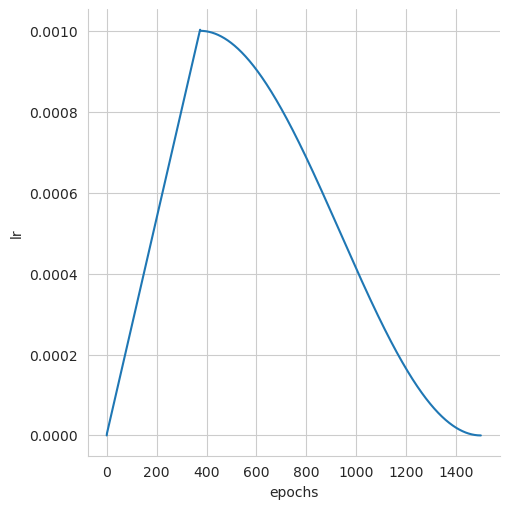
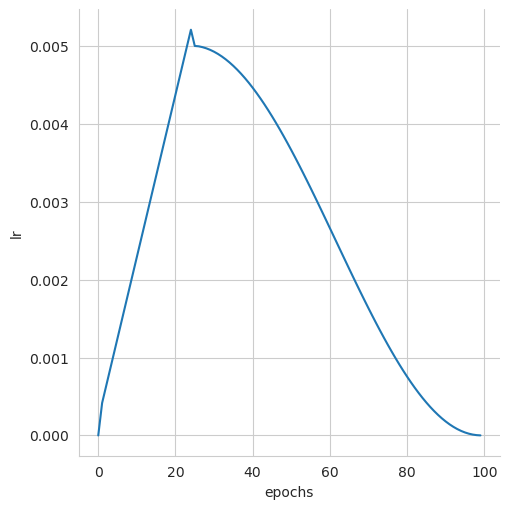
Now output is taken from last output rather than last Hidden

diff --git a/model.py b/model.py
@@ -68,14 +68,15 @@ class lstm_embedding_model(nn.Module):
                             hidden_size=self.args.lstm_hidden,
                             num_layers=self.args.num_layers,
                             dropout=self.args.dropout,
-                            batch_first=True)
+                            batch_first=True,
+                            bidirectional=True if self.args.num_directions==2 else False)
 
         # call the h,C initialization function to get initial tensors for `h` and `c`
         # containes tuple(h_0, c_0)
 
         self.relu = nn.ReLU(inplace=False)
         self.softmax = nn.Softmax(dim=-1)
-        self.linear1 = nn.Linear(in_features=self.args.lstm_hidden,
+        self.linear1 = nn.Linear(in_features=self.args.lstm_hidden*self.args.num_directions,
                                  out_features=self.args.hidden_1)
         self.out = nn.Linear(in_features=self.args.hidden_1,
                              out_features=self.args.classes)
@@ -104,6 +105,12 @@ class lstm_embedding_model(nn.Module):
                     requires_grad=True)
             )
 
+    def last_timestep(self, unpacked, lengths):
+        # Index of the last output for each sequence.
+        idx = (lengths - 1).view(-1, 1).expand(unpacked.size(0),
+                                               unpacked.size(2)).unsqueeze(1)
+        return unpacked.gather(1, idx).squeeze()
+
     def forward(self, inp, seq_len):
         """applies forward propagation loop
 
@@ -114,7 +121,7 @@ class lstm_embedding_model(nn.Module):
 
         """
         # print(inp)
-        self.hidden = self.init_hidden()
+        self.hidden = self.init_hidden() # initialize the hidden states from zero
         out = self.embed(inp)
 
         out = pack_padded_sequence(out, seq_len, batch_first=True, enforce_sorted=False)
@@ -124,6 +131,7 @@ class lstm_embedding_model(nn.Module):
         out, __ = pad_packed_sequence(sequence=out,
                                       batch_first=True,
                                       )
+
         # out[:,-1,:] i.e. last time step contains many zeros after being passed through pad_packed_sequences
         # Solution: Use the cell-state or hidden-state
         # Console().print(f"out shape ==> {out.shape}")
@@ -136,8 +144,9 @@ class lstm_embedding_model(nn.Module):
         #
         # Choosing 'H' and leaving 'C'
         # print(f"%%%%%%%%%%%% {_[0].shape} %%%%%%%%%%")
-        out = self.hidden[0][-1]  # [num_layers * num_directions, batch, hidden_size]
-
+        # out = self.hidden[0][-1]  # [num_layers * num_directions, batch, hidden_size]
+        out = self.last_timestep(out, seq_len)
+        print(out.shape)
         # out = out[:,-1,:]
 
         # out shape --> [batch, hidden_size]

diff --git a/train.py b/train.py
@@ -20,7 +20,8 @@ import shutil
 
 Path("images").mkdir(parents=True, exist_ok=True)
 if any(Path("images").iterdir()): # if files are present inside "images"
-    shutil.rmtree("images") # then delete the whole tree
+    shutil.rmtree("images") # then delete the whole tree 
+    Path("images").mkdir(exist_ok=True, parents=True)
 
 config = yaml.load(open("conf.yaml", "r"), yaml.SafeLoader)
 args = argparse.Namespace(**config)
@@ -33,13 +34,14 @@ yaml.dump(vars(args), open("conf.yaml", "w"), yaml.SafeDumper)
 loss = torch.nn.CrossEntropyLoss()
 args.vocab = vocab
 args.batch = bs
+
 x = torch.tensor(x).type(torch.LongTensor)
 y = torch.tensor(y).type(torch.LongTensor)
 sq_len = torch.tensor(sq_len).type(torch.long).cpu()
 
 model = lstm_embedding_model(args)
 optim = AdamW(params=model.parameters(),
-              lr=0.001,
+              lr=0.005,
 
               )
 
